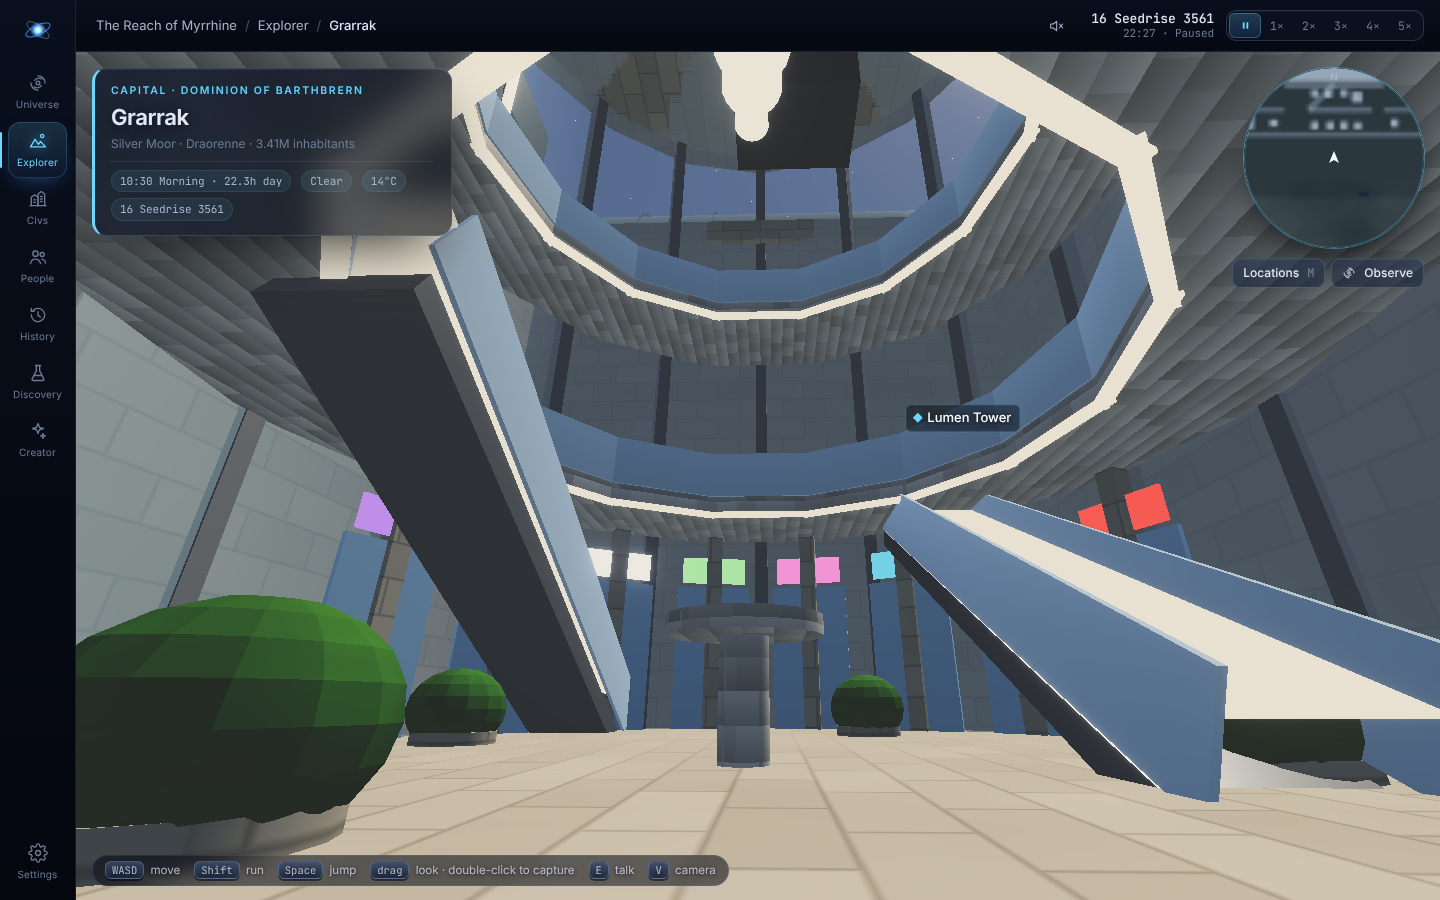
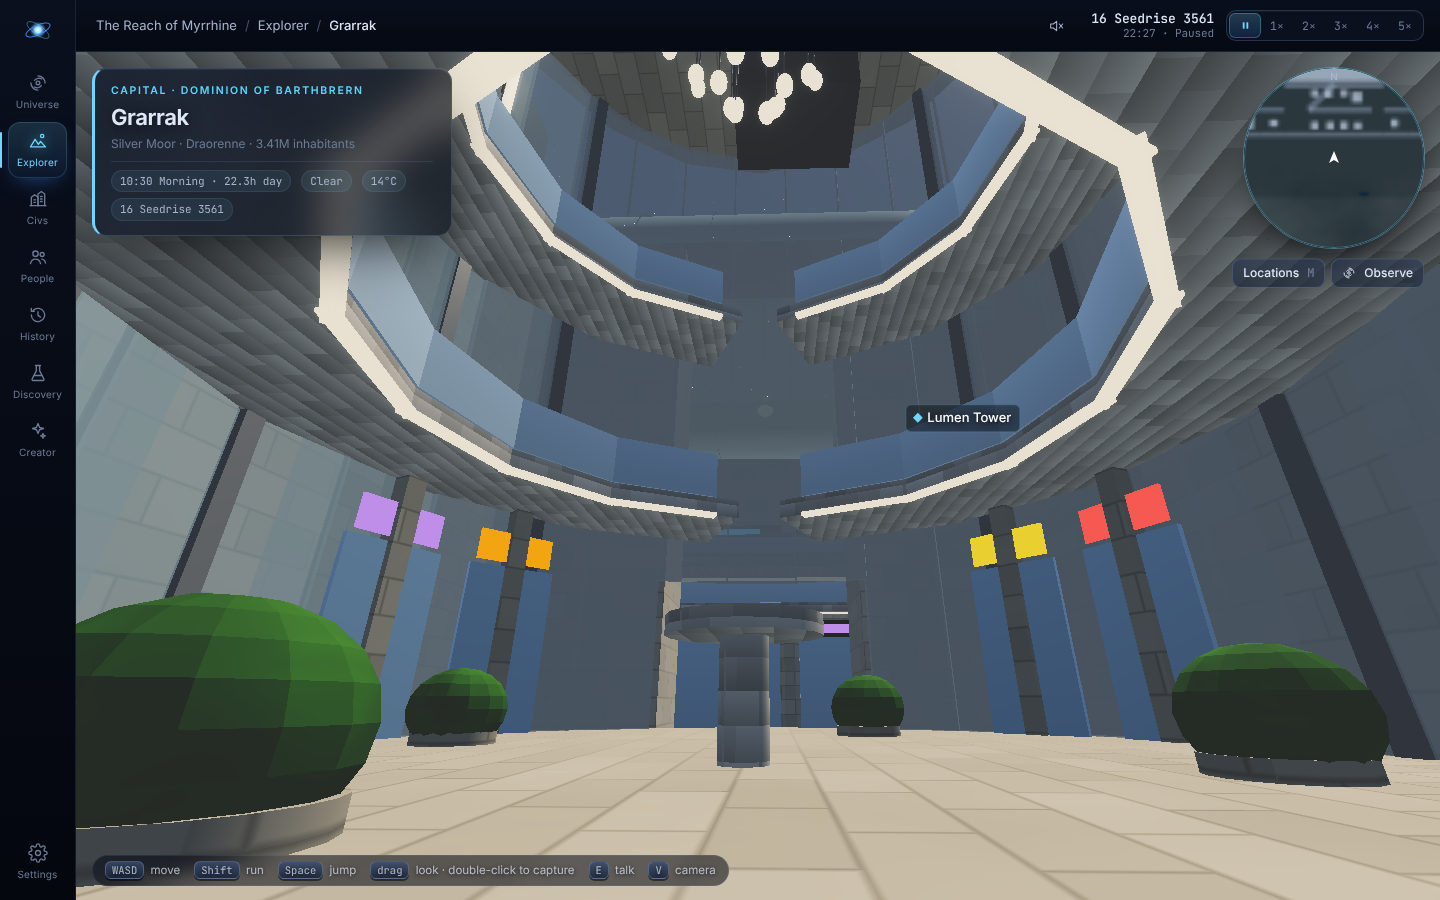
Walkable mall concourse: two-level shopping street under the vault, galleries, bridges, step-built escalators, crystal chandelier
Claude-Session: https://claude.ai/code/session_014yo4DpHJhzR4RbKay17FEp

diff --git a/src/explorer/districts.ts b/src/explorer/districts.ts
@@ -800,10 +800,9 @@ function mall(out: DistrictData, b: Building, y0: number, warm: boolean) {
   const glassC = '#5f8fae';
   const brand = r(1) < 0.5 ? '#ffd27a' : '#7ae0ff';
   const shopCols = ['#ff5a5a', '#ffd23a', '#5ad1ff', '#ff8ad8', '#8aff9a', '#ffffff', '#ff9a3a', '#b48aff'];
-  const anchorW = big ? Math.min(26, W * 0.2) : 0;
-  const coreW = W - anchorW * 2;
-  // the entrance rotunda's size; it is hollow and you can walk into it
+  // the entrance rotunda, the concourse and the passage between them; all hollow and walkable
   const g = mallGeometry(b);
+  const { anchorW, coreW, vd, pass } = g;
   const rd = g.rd;
   const rz = g.rz;
   const rh = H + (big ? 8 : 4);
@@ -815,8 +814,11 @@ function mall(out: DistrictData, b: Building, y0: number, warm: boolean) {
 
   // ── the main body: two shopping levels clad in cream stone with vertical fins
   // the body is notched where the rotunda stands: a block behind it and a wing either side
-  add('box', 'stone', 0, 0.35, (rBack - D / 2) / 2, coreW, H - 0.35, rBack + D / 2, cream);
-  for (const sd of [-1, 1]) add('box', 'stone', sd * (rd / 2 + sideW / 2), 0.35, (rBack + D / 2) / 2, sideW, H - 0.35, D / 2 - rBack, cream);
+  // the shell: a block behind the concourse, wings either side of the rotunda, and short walls
+  // either side of the passage from the rotunda into the concourse
+  add('box', 'stone', 0, 0.35, (-D / 2 - vd / 2) / 2, coreW, H - 0.35, D / 2 - vd / 2, cream);
+  for (const sd of [-1, 1]) add('box', 'stone', sd * (rd / 2 + sideW / 2), 0.35, (vd / 2 + D / 2) / 2, sideW, H - 0.35, D / 2 - vd / 2, cream);
+  if (rBack > vd / 2 + 0.2) for (const sd of [-1, 1]) add('box', 'stone', sd * (pass + (rd / 2 - pass) / 2), 0.35, (vd / 2 + rBack) / 2, rd / 2 - pass, H - 0.35, rBack - vd / 2, cream);
   // glazed shopfronts at ground level, a dark band of glass above, on the front wings and the back
   const faces: [number, number, number, number][] = [[0, -D / 2, coreW, Math.PI]];
   for (const sd of [-1, 1]) faces.push([sd * (rd / 2 + sideW / 2), D / 2, sideW, 0]);
@@ -834,9 +836,9 @@ function mall(out: DistrictData, b: Building, y0: number, warm: boolean) {
     add('box', 'glow', x, 3.7, D / 2 + 0.75, 3.8, 0.55, 0.08, shopCols[Math.floor(r(40 + x) * shopCols.length)]);
   }
   // cornice and a lit parapet strip, notched like the body
-  add('box', 'stone', 0, H, (rBack - D / 2) / 2, coreW + 1.2, 0.8, rBack + D / 2 + 0.6, '#d8cfbc');
+  add('box', 'stone', 0, H, (-D / 2 - 0.6 - vd / 2) / 2, coreW + 1.2, 0.8, D / 2 + 0.6 - vd / 2, '#d8cfbc');
   for (const sd of [-1, 1]) {
-    add('box', 'stone', sd * (rd / 2 + sideW / 2 + 0.3), H, (rBack + D / 2 + 0.6) / 2, sideW + 0.6, 0.8, D / 2 - rBack + 0.6, '#d8cfbc');
+    add('box', 'stone', sd * (rd / 2 + sideW / 2 + 0.3), H, (vd / 2 + D / 2 + 0.6) / 2, sideW + 0.6, 0.8, D / 2 + 0.6 - vd / 2, '#d8cfbc');
     add('box', 'glow', sd * (rd / 2 + sideW / 2 + 0.3), H + 0.82, D / 2 + 0.6, sideW + 0.4, 0.12, 0.1, brand);
   }
   // LED billboards on the upper level of the front wings
@@ -848,9 +850,10 @@ function mall(out: DistrictData, b: Building, y0: number, warm: boolean) {
     }
 
   // ── the glazed barrel-vault atrium running the length of the mall, ribbed in white steel
-  const vaultD = Math.min(14, D * 0.32);
-  const vaultL = coreW - 6;
-  add('box', 'stone', 0, H + 0.8, 0, vaultL + 1, 1.2, vaultD + 1.4, '#d8cfbc');
+  const vaultD = vd;
+  const vaultL = coreW;
+  // the vault springs from two stone beams over the concourse walls
+  for (const sd of [-1, 1]) add('box', 'stone', 0, H, sd * (vd / 2 + 0.35), vaultL, 2, 0.7, '#d8cfbc');
   add('cyl', 'atrium', vaultL / 2, H + 2, 0, vaultD, vaultL, vaultD, '#bfe2f0', 0, 0, Math.PI / 2);
   for (let x = -vaultL / 2; x <= vaultL / 2 + 0.01; x += 3) add('ring', 'metal', x, H + 2, 0, vaultD + 0.25, 1, vaultD + 0.25, '#e8ecf0', Math.PI / 2, Math.PI / 2);
   add('box', 'metal', 0, H + 2 + vaultD / 2 - 0.1, 0, vaultL, 0.25, 0.3, '#e8ecf0');
@@ -863,6 +866,100 @@ function mall(out: DistrictData, b: Building, y0: number, warm: boolean) {
     }
   }
 
+  // ── the concourse: a two-level shopping street under the glass vault
+  {
+    const cw = coreW;
+    const half = vd / 2;
+    const gw = big ? 2.6 : 2;
+    // marble floor with inlaid bands and a lit strip down each side
+    add('box', 'marble', 0, 0.35, 0, cw, 0.06, vd, '#f2eee6');
+    for (let x = -cw / 2 + 4; x < cw / 2 - 2; x += 8) add('box', 'stone', x, 0.42, 0, 0.35, 0.01, vd - 1, '#c9bfa8');
+    for (const sd of [-1, 1]) add('box', 'gold', 0, 0.42, sd * (half - gw - 0.4), cw - 2, 0.01, 0.12, '#c8a050');
+    // shopfronts on both levels along both sides, with lit fascia signs and stone pilasters
+    const unit = big ? 7 : 6;
+    for (const sd of [-1, 1]) {
+      const wz = sd * half;
+      const rot = sd > 0 ? Math.PI : 0;
+      for (let x = -cw / 2 + unit / 2; x < cw / 2 - unit / 2 + 0.01; x += unit) {
+        // the opening into the rotunda passage on the entrance side
+        if (sd > 0 && Math.abs(x) < pass + unit / 2) continue;
+        const col = shopCols[Math.floor(r(700 + x * 3 + sd) * shopCols.length)];
+        for (const [y0s, hgt] of [[0.41, 3.9], [5.6, 3.4]] as const) {
+          add('box', 'glass', x, y0s, wz - sd * 0.06, unit - 0.9, hgt, 0.08, '#b8d8e8', rot);
+          // goods glowing behind the glass
+          add('box', 'glow', x, y0s + 0.3, wz + sd * 0.25, unit - 1.6, hgt * 0.5, 0.05, r(800 + x + y0s) < 0.5 ? '#fff0d8' : '#e8f4ff', rot);
+          add('box', 'dark', x, y0s + hgt, wz - sd * 0.12, unit - 0.6, 0.75, 0.14, '#24262a', rot);
+          add('box', 'glow', x, y0s + hgt + 0.18, wz - sd * 0.2, unit * 0.55, 0.38, 0.04, col, rot);
+        }
+        add('box', 'stone', x - unit / 2, 0.41, wz - sd * 0.18, 0.5, H - 0.6, 0.36, '#e2dac8', rot);
+      }
+      // the upper gallery: a walkway with a glass balustrade, a lit underside and a handrail
+      add('box', 'marble', 0, 5.2, wz - sd * (gw / 2), cw, 0.4, gw, '#efeae0');
+      add('box', 'glow', 0, 5.15, wz - sd * (gw - 0.2), cw, 0.06, 0.3, '#fff2d6');
+      add('box', 'glass', 0, 5.6, wz - sd * gw, cw, 1.05, 0.06, '#cfe6f0');
+      add('box', 'metal', 0, 6.65, wz - sd * gw, cw, 0.08, 0.12, '#d8dce0');
+    }
+    // footbridges across the void between the galleries
+    for (let x = -cw / 2 + 10; x < cw / 2 - 6; x += big ? 18 : 15) {
+      if (Math.abs(x) < pass + 3) continue;
+      add('box', 'marble', x, 5.2, 0, 3, 0.4, vd - gw * 2 + 0.2, '#efeae0');
+      for (const sd of [-1, 1]) add('box', 'glass', x + sd * 1.5, 5.6, 0, 0.06, 1.05, vd - gw * 2, '#cfe6f0');
+    }
+    // escalators: a pair crossing in the middle of each half of the concourse, each a flight of
+    // steps between glass balustrades with lit handrails, landing on the gallery
+    const flight = (ex: number, ez: number, dir: number) => {
+      const steps = 18;
+      const run = 8.4;
+      const rise = 4.8;
+      for (let k = 0; k < steps; k++) {
+        const f = (k + 0.5) / steps;
+        const sx = ex + dir * (f - 0.5) * run;
+        const top = 0.41 + f * rise;
+        const sw = run / steps + 0.02;
+        // the tread, the truss below it, and on each side a glass panel and a lit handrail
+        add('box', 'metal', sx, top - 0.18, ez, sw, 0.18, 1.0, '#8a9098');
+        add('box', 'metal', sx, Math.max(0.41, top - 0.9), ez, sw, Math.min(0.72, top - 0.41), 1.2, '#c0c6cc');
+        for (const ss of [-1, 1]) {
+          add('box', 'glass', sx, top, ez + ss * 0.58, sw, 0.9, 0.04, '#cfe6f0');
+          add('box', 'glow', sx, top + 0.9, ez + ss * 0.58, sw, 0.06, 0.09, '#fff2d6');
+        }
+      }
+    };
+    for (const sd of [-1, 1]) {
+      const ex = sd * cw * 0.27;
+      if (vd >= 9) {
+        flight(ex, -1.1, 1);
+        flight(ex, 1.1, -1);
+      }
+    }
+    // kiosks, planters with trees and benches down the middle; banners and pendant lamps above
+    for (let x = -cw / 2 + 6; x < cw / 2 - 4; x += big ? 12 : 10) {
+      if (Math.abs(Math.abs(x) - cw * 0.27) < 6 || Math.abs(x) < pass + 2) continue;
+      const k = Math.floor(r(900 + x) * 3);
+      if (k === 0) {
+        add('box', 'wood', x, 0.41, 0, 2.6, 1.1, 1.6, '#7a5a3e');
+        add('box', 'metal', x, 2.6, 0, 3, 0.15, 2, '#e8e8e8');
+        add('box', 'glow', x, 1.6, 0, 2.4, 0.5, 1.62, shopCols[(x * 7) & 7] ?? '#ffffff');
+      } else {
+        add('cyl', 'stone', x, 0.41, 0, 1.8, 0.8, 1.8, '#d8cfbc');
+        add('cyl', 'bark', x, 1.2, 0, 0.25, 1.6, 0.25, '#6a5240');
+        add('sphere', 'leaf', x, 3.1, 0, 2.4, 2, 2.4, '#4f8a3a');
+        for (const sd of [-1, 1]) add('box', 'wood', x + sd * 2.2, 0.41, 0, 1.8, 0.45, 0.55, '#8a6a4a');
+      }
+    }
+    for (let x = -cw / 2 + 5; x < cw / 2 - 3; x += 6) {
+      add('cyl', 'metal', x, H - 1.5, 0, 0.03, 3.5 + vd * 0.3, 0.03, '#c8ccd0');
+      add('sphere', 'glow', x, H - 1.6, 0, 0.7, 0.45, 0.7, '#fff2d6');
+      if (Math.floor(x / 6) % 2 === 0) add('box', 'cloth', x + 3, H - 3.5, 0, 0.05, 2.6, 1.2, shopCols[Math.floor(r(950 + x) * shopCols.length)]);
+    }
+    // the ends of a small mall: glass walls with doors out to the side streets
+    if (!big)
+      for (const sd of [-1, 1]) {
+        add('box', 'glass', sd * (cw / 2 + 0.2), 0.35, 0, 0.12, H - 0.35, vd, '#bfe2f0');
+        add('box', 'glow', sd * (cw / 2 + 0.1), 3.6, 0, 0.05, 0.5, 4, brand);
+      }
+  }
+
   // ── anchor stores at both ends: taller, dark glass, each with a big lit logo
   if (big)
     for (const s of [-1, 1]) {
@@ -873,15 +970,28 @@ function mall(out: DistrictData, b: Building, y0: number, warm: boolean) {
       add('box', 'dark', ax, H - 3, D / 2 - 1.8, anchorW * 0.6, 4.6, 0.3, '#1a1c20');
       add('box', 'glow', ax, H - 2.7, D / 2 - 1.6, anchorW * 0.5, 4, 0.06, s < 0 ? '#ffffff' : '#ffcf5a');
       add('box', 'glass', ax, 0.35, D / 2 - 1.9, anchorW - 4, 6, 0.15, '#6f9cbc');
+      // the anchor's shopfront at the end of the concourse
+      add('box', 'glass', ax - s * (anchorW / 2 + 0.06), 0.41, 0, 0.08, 4.4, vd - 1, '#b8d8e8');
+      add('box', 'glow', ax - s * (anchorW / 2 + 0.1), 5.6, 0, 0.05, 1.6, vd * 0.6, s < 0 ? '#ffffff' : '#ffcf5a');
     }
 
   // ── the entrance rotunda: a glass drum taller than the mall, a ring canopy, a lantern dome
   add('cyl', 'stone', 0, 0.35, rz, rd + 1, 0.6, rd + 1, '#d8cfbc');
-  add('cyl', 'atrium', 0, 0.35, rz, rd, rh - 0.35, rd, '#bfe2f0');
+  // the drum, glazed in panels, with an open doorway at the front and the passage at the back
+  {
+    const segs = big ? 40 : 26;
+    for (let k = 0; k < segs; k++) {
+      const t = (k / segs) * Math.PI * 2;
+      const lx = (Math.sin(t) * rd) / 2;
+      const lz = rz + (Math.cos(t) * rd) / 2;
+      const low = Math.abs(lx) < pass + 0.4 ? 4.2 : 0.35;
+      add('box', 'atrium', lx, low, lz, (Math.PI * rd) / segs + 0.05, rh - low, 0.12, '#bfe2f0', t);
+    }
+  }
   const fins = big ? 28 : 16;
   for (let k = 0; k < fins; k++) {
     const t = (k / fins) * Math.PI * 2;
-    if (Math.cos(t) > 0.985) continue;
+    if (Math.abs(Math.sin(t) * rd) / 2 < pass + 0.3) continue;
     add('box', 'metal', Math.sin(t) * (rd / 2 + 0.12), 0.35, rz + Math.cos(t) * (rd / 2 + 0.12), 0.3, rh - 0.35, 0.5, '#eef0f2', t);
   }
   // floor bands outside the glass, and inside two gallery levels round an open well
@@ -893,7 +1003,7 @@ function mall(out: DistrictData, b: Building, y0: number, warm: boolean) {
       const t = (k / segs) * Math.PI * 2;
       const rr = rd / 2 - gw / 2 - 0.2;
       // leave the front open above the doors
-      if (Math.cos(t) > 0.92) continue;
+      if (Math.abs(Math.cos(t)) > 0.92) continue;
       add('box', 'marble', Math.sin(t) * rr, y, rz + Math.cos(t) * rr, (Math.PI * rd) / segs + 0.3, 0.4, gw, '#efeae0', t);
       add('box', 'glass', Math.sin(t) * (rr - gw / 2), y + 0.4, rz + Math.cos(t) * (rr - gw / 2), (Math.PI * (rd - gw * 2)) / segs + 0.2, 1, 0.08, '#cfe6f0', t);
       add('box', 'glow', Math.sin(t) * (rr - gw / 2), y - 0.05, rz + Math.cos(t) * (rr - gw / 2), (Math.PI * (rd - gw * 2)) / segs + 0.2, 0.08, 0.2, '#fff2d6', t);
@@ -939,25 +1049,25 @@ function mall(out: DistrictData, b: Building, y0: number, warm: boolean) {
     const sx = Math.sin(t) * rr;
     const sz = rz + Math.cos(t) * rr;
     const sw = (Math.PI * rd * 0.76) / 2 / shops;
+    if (Math.abs(sx) < pass + sw / 2 + 0.3) continue;
     add('box', 'glass', sx, 0.41, sz, sw - 0.4, 3.6, 0.1, '#a8cce0', t + Math.PI);
     add('box', 'glow', sx * 0.995, 4.1, rz + (sz - rz) * 0.995, sw - 0.6, 0.6, 0.06, shopCols[k % shopCols.length], t + Math.PI);
     add('box', 'stone', sx, 0.41, sz, 0.35, 4.8, 0.35, '#d8cfbc', t);
   }
-  for (const sd of [-1, 1]) {
-    const ex = sd * rd * 0.26;
-    const ez = rz - rd * 0.12;
-    // the escalator: a sloping truss with glass sides and a lit handrail
-    add('box', 'metal', ex, 2.6, ez, 1.5, 0.35, 10, '#c0c6cc', 0, sd * 0.48);
-    for (const ss of [-1, 1]) add('box', 'glass', ex + ss * 0.8, 3.1, ez, 0.06, 1, 10, '#cfe6f0', 0, sd * 0.48);
-    add('box', 'glow', ex, 3.7, ez, 1.6, 0.06, 10, '#fff2d6', 0, sd * 0.48);
-  }
   fountain(add, 0, rz + rd * 0.06, big ? 6 : 3.6, true);
-  // the chandelier: tiers of glowing rings on a cable
-  add('cyl', 'metal', 0, rh - 6, rz, 0.06, 6, 0.06, '#c8ccd0');
-  for (const [y, dd] of [[rh - 6, big ? 5 : 3], [rh - 7.2, big ? 3.6 : 2.2], [rh - 8.2, big ? 2 : 1.2]] as const) {
-    add('ring', 'glow', 0, y, rz, dd, 1, dd, '#fff2cc');
-    add('cyl', 'glow', 0, y, rz, dd * 0.5, 0.3, dd * 0.5, '#fff6e0');
-  }
+  // the chandelier: a gilt crown with three rings of crystal drops on fine cables
+  const cy = rh - (big ? 5 : 3.5);
+  add('cyl', 'metal', 0, cy, rz, 0.05, rh - cy, 0.05, '#c8ccd0');
+  add('ring', 'gold', 0, cy, rz, big ? 6 : 3.6, 1, big ? 6 : 3.6, '#d8b25a');
+  add('cyl', 'gold', 0, cy - 0.3, rz, big ? 1.4 : 0.9, 0.6, big ? 1.4 : 0.9, '#d8b25a');
+  for (const [rr2, n2, drop] of [[big ? 3 : 1.8, big ? 18 : 12, 1.6], [big ? 2 : 1.2, big ? 12 : 8, 2.6], [big ? 1 : 0.6, 6, 3.6]] as const)
+    for (let k = 0; k < n2; k++) {
+      const t = (k / n2) * Math.PI * 2 + rr2;
+      const px = Math.sin(t) * rr2;
+      const pz = rz + Math.cos(t) * rr2;
+      add('cyl', 'metal', px, cy - drop, pz, 0.03, drop, 0.03, '#d8dce0');
+      add('sphere', 'glow', px, cy - drop, pz, 0.32, 0.5, 0.32, '#fff4dc');
+    }
   for (const t of [0.8, 2.3, 3.9, 5.4]) {
     const bx = Math.sin(t) * rd * 0.3;
     const bz = rz + Math.cos(t) * rd * 0.3;

diff --git a/src/explorer/layout.ts b/src/explorer/layout.ts
@@ -101,11 +101,17 @@ export function mallGeometry(b: Pick<Building, 'x' | 'z' | 'w' | 'd' | 'door'>) 
   const big = W >= 60;
   const rd = big ? Math.min(30, W * 0.22) : Math.min(14, W * 0.55);
   const rz = D / 2 - rd * 0.15;
+  const anchorW = big ? Math.min(26, W * 0.2) : 0;
+  const coreW = W - anchorW * 2;
+  // the concourse under the glass vault, and the passage from the rotunda into it
+  const vd = Math.min(14, D * 0.32);
+  const rBack = rz - rd / 2;
+  const pass = 2.4;
   const ry = Math.atan2(b.door[0] - b.x, b.door[1] - b.z);
   const cos = Math.cos(ry);
   const sin = Math.sin(ry);
   const toWorld = (lx: number, lz: number): [number, number] => [b.x + lx * cos + lz * sin, b.z - lx * sin + lz * cos];
-  return { W, D, big, rd, rz, alongX, toWorld };
+  return { W, D, big, rd, rz, alongX, toWorld, anchorW, coreW, vd, rBack, pass };
 }
 
 function mallColliders(b: Building): Collider[] {
@@ -115,19 +121,23 @@ function mallColliders(b: Building): Collider[] {
     const [x, z] = g.toWorld(lx, lz);
     out.push({ type: 'box', x, z, hw: (g.alongX ? d : w) / 2, hd: (g.alongX ? w : d) / 2 });
   };
-  const rBack = g.rz - g.rd / 2;
-  const coreHalf = g.W / 2;
-  const sideW = coreHalf - g.rd / 2;
-  // the block behind the rotunda and the wings either side of it
-  box(0, (rBack - g.D / 2) / 2, g.W, rBack + g.D / 2);
-  for (const s of [-1, 1]) box(s * (g.rd / 2 + sideW / 2), (rBack + g.D / 2) / 2, sideW, g.D / 2 - rBack);
-  // the rotunda's glass wall as a ring of posts, open at the doorway
-  const n = Math.ceil((Math.PI * g.rd) / 1.1);
+  const { W, D, rd, rz, vd, rBack, pass, coreW } = g;
+  // the block behind the concourse, the anchors at its ends, the wings either side of the rotunda,
+  // and the short walls either side of the passage from the rotunda into the concourse
+  box(0, (-D / 2 - vd / 2) / 2, W, D / 2 - vd / 2);
+  if (g.anchorW > 0) for (const s of [-1, 1]) box(s * (coreW / 2 + g.anchorW / 2), (D / 2 - vd / 2) / 2, g.anchorW, D / 2 + vd / 2);
+  else for (const s of [-1, 1]) box(s * (coreW / 2 + 0.3), 0, 0.6, vd);
+  for (const s of [-1, 1]) box(s * (rd / 2 + (coreW / 2 - rd / 2) / 2), (vd / 2 + D / 2) / 2, coreW / 2 - rd / 2, D / 2 - vd / 2);
+  if (rBack > vd / 2 + 0.2) for (const s of [-1, 1]) box(s * (pass + (rd / 2 - pass) / 2), (vd / 2 + rBack) / 2, rd / 2 - pass, rBack - vd / 2);
+  // the rotunda's glass wall as a ring of posts, open at the doorway and at the passage
+  const n = Math.ceil((Math.PI * rd) / 1.1);
   for (let k = 0; k < n; k++) {
     const t = (k / n) * Math.PI * 2;
-    const lx = Math.sin(t) * g.rd / 2;
-    const lz = g.rz + Math.cos(t) * g.rd / 2;
-    if (Math.abs(lx) < 2.4 && lz > g.rz) continue;
+    const lx = (Math.sin(t) * rd) / 2;
+    const lz = rz + (Math.cos(t) * rd) / 2;
+    if (Math.abs(lx) < pass) continue;
+    // posts inside the concourse or the wings are covered by those
+    if (lz < vd / 2) continue;
     const [x, z] = g.toWorld(lx, lz);
     out.push({ type: 'circle', x, z, hw: 0.45, hd: 0 });
   }

diff --git a/tests/world3d.test.ts b/tests/world3d.test.ts
@@ -215,8 +215,14 @@ describe('futuristic districts', () => {
       expect(hit(...g.toWorld(0, g.rz + g.rd / 2))).toBe(false);
       expect(hit(...g.toWorld(0, -g.D / 2 + 2))).toBe(true);
       expect(hit(...g.toWorld(g.rd / 2 + 3, g.D / 2 - 2))).toBe(true);
+      expect(hit(...g.toWorld(0, -g.vd / 2 - 1))).toBe(true);
       // the glass wall either side of the door blocks
       expect(hit(...g.toWorld(g.rd / 2, g.rz))).toBe(true);
+      // a walk from the rotunda through the passage and down the concourse is clear
+      for (let z = g.rz; z > 0; z -= 0.5) expect(hit(...g.toWorld(0, z))).toBe(false);
+      for (let x = -g.coreW / 2 + 1; x < g.coreW / 2 - 1; x += 0.5) expect(hit(...g.toWorld(x, 0))).toBe(false);
+      // and the concourse ends at walls
+      expect(hit(...g.toWorld(g.coreW / 2 + 0.3, 0))).toBe(true);
     }
   });
 

diff --git a/PHASE2_REPORT.md b/PHASE2_REPORT.md
@@ -689,3 +689,21 @@ Both malls are rebuilt in the style of Dubai's waterfront malls such as Marina M
 **Tests:** malls must face the spine (front edge within 40 m of it) or sit in Downtown. Downtown ring towers keep clear of the mall.
 
 Screenshots are in `docs/screenshots/mall/`.
+
+## Phase 12: walkable malls
+
+You can now walk into both malls, all the way through.
+
+**Route inside:** you enter through the rotunda's open doorway, cross the rotunda, and go through a passage at its back into a concourse that runs the full length of the mall under the glass barrel vault.
+
+**The concourse**
+- **Floor:** marble with inlaid bands and gold strips.
+- **Shops:** shopfronts on both levels and both sides, with goods lit behind the glass, lit fascia signs and stone pilasters.
+- **Galleries:** an upper gallery along each side, with a glass balustrade and lit underside, and footbridges across the void between them.
+- **Escalators:** crossing pairs, built as flights of treads between glass panels with lit handrails.
+- **Centre:** kiosks, planters with trees and benches, with pendant lamps and banners hanging from the vault.
+- **Ends:** on the flagship, the anchor stores' shopfronts close the concourse. The Downtown mall has glass end walls.
+
+**The rotunda chandelier** is now a gilt crown with three rings of crystal drops on fine cables.
+
+**Colliders** follow the new shell. A test walks from the rotunda centre through the passage and along the whole concourse without hitting anything. It also checks that the shopping wings, the back block and the concourse ends are solid.
